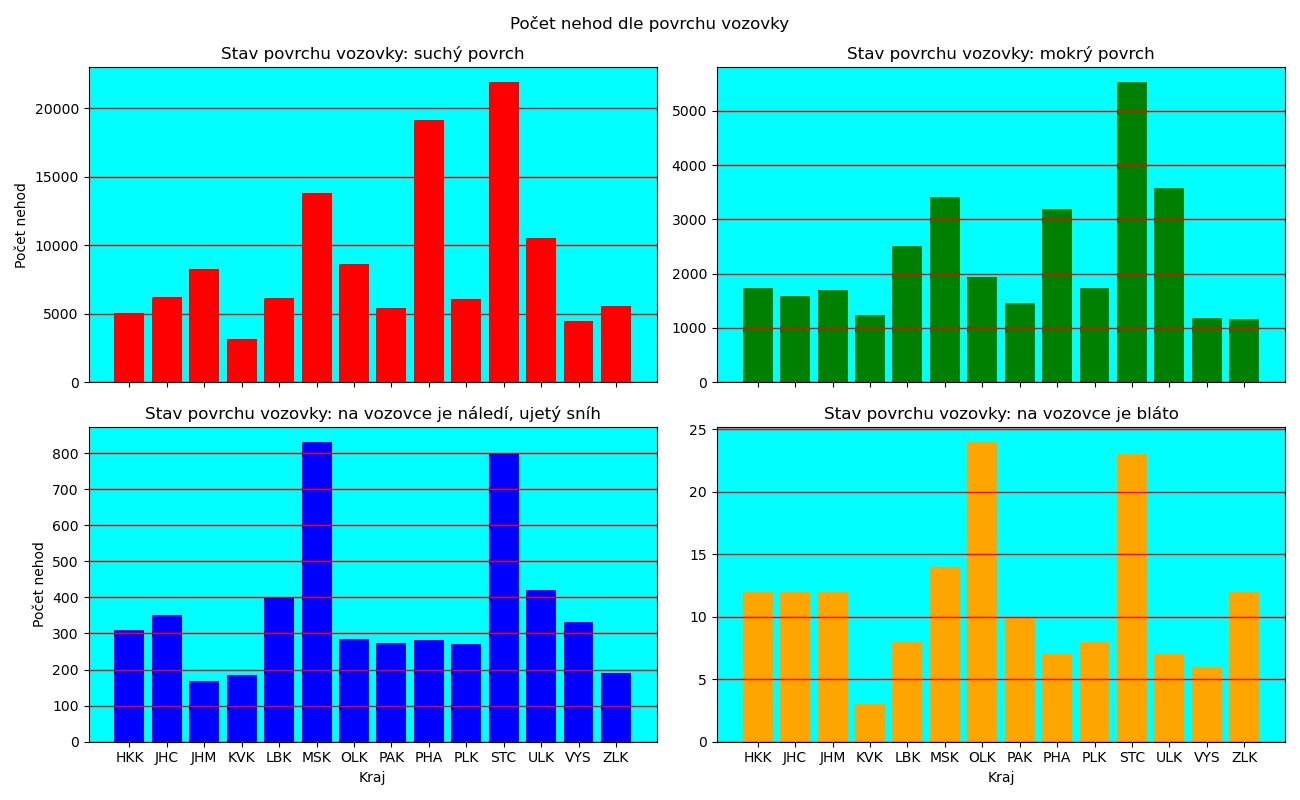
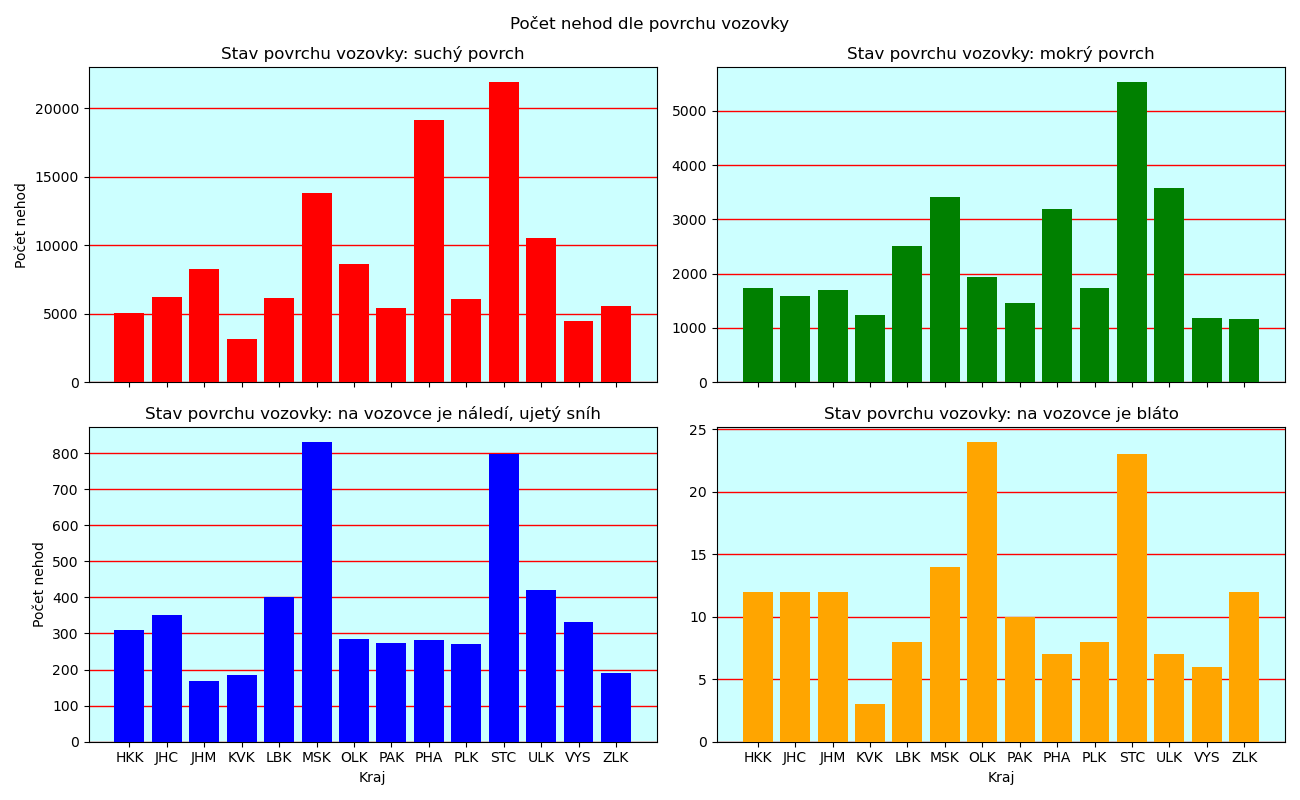
IZV project part 2 done (PEP8 required)

diff --git a/IZV/project_part2/analysis.py b/IZV/project_part2/analysis.py
@@ -85,15 +85,15 @@ def plot_state(df: pd.DataFrame, fig_location: str = None,
         state_data = df[df['state'] == state_name]
         state_counts = state_data.groupby('region')['region'].agg('count')
 
-        ax.bar(state_counts.index, state_counts.values, width=0.8, bottom=0, color=colors[i])
+        ax.bar(state_counts.index, state_counts.values, width=0.8, zorder=3, color=colors[i])
 
         ax.set_title(f'Stav povrchu vozovky: {state_name}')
         if i//2 == 1:
             ax.set_xlabel('Kraj')
         if i%2 == 0:
             ax.set_ylabel('Počet nehod')
-        ax.set_facecolor('cyan')
-        ax.grid(axis='y', color='red', linewidth=1)
+        ax.set_facecolor('#CCFFFF')
+        ax.grid(axis='y', color='red', linewidth=1, zorder=0)
 
     fig.suptitle('Počet nehod dle povrchu vozovky')
     fig.tight_layout()
@@ -110,23 +110,6 @@ def plot_alcohol(df: pd.DataFrame, df_consequences : pd.DataFrame,
     df_new = pd.merge(df, df_consequences, on='p1', how='inner')
     fig, axes = plt.subplots(2, 2, figsize=(13, 8), sharex=True)
 
-    region = {
-        0: "PHA",
-        1: "STC",
-        2: "JHC",
-        3: "PLK",
-        4: "ULK",
-        5: "HKK",
-        6: "JHM",
-        7: "MSK",
-        14: "OLK",
-        15: "ZLK",
-        16: "VYS",
-        17: "PAK",
-        18: "LBK",
-        19: "KVK",
-    }
-
     injury = {
         1: "Usmrcení",
         2: "Těžké zranění",
@@ -135,7 +118,7 @@ def plot_alcohol(df: pd.DataFrame, df_consequences : pd.DataFrame,
     }
     df_new['injury'] = df_new['p59g'].map(injury)
     df_new['injured_person'] = df_new['p59a'].apply(lambda x: 'Řidič' if x == 1 else 'Spolujezdec')
-    df_new['alcohol'] = df_new['p11'].apply(lambda x: 'Ano' if x in [1, 3, 6, 7, 8, 9] else 'Ne')
+    df_new['alcohol'] = df_new['p11'].apply(lambda x: 'Ano' if x >= 3 else 'Ne')
 
 
     for i, injury_name in enumerate(df_new['injury'].dropna().unique()):
@@ -151,25 +134,27 @@ def plot_alcohol(df: pd.DataFrame, df_consequences : pd.DataFrame,
             (df_new['injured_person'] == 'Spolujezdec') &
             (df_new['injury'] == injury_name)
         ]
-        injury_driver_counts = injury_driver_data.groupby('region')['region'].agg('count').reindex(region.values(), fill_value=0)
-        injury_passenger_counts = injury_passenger_data.groupby('region')['region'].agg('count').reindex(region.values(), fill_value=0)
+        injury_driver_counts = injury_driver_data.groupby('region')['region'].agg('count')
+        injury_passenger_counts = injury_passenger_data.groupby('region')['region'].agg('count')
 
-        positions = np.arange(len(region))
+        injury_driver_counts = injury_driver_counts.reindex(df_new['region'].unique(), fill_value=0)
+        injury_passenger_counts = injury_passenger_counts.reindex(df_new['region'].unique(), fill_value=0)
 
-        ax.bar(positions - 0.23, injury_driver_counts.values, width=0.4, bottom=0, color='blue', label='Řidič')
-        ax.bar(positions + 0.23, injury_passenger_counts.values, width=0.4, bottom=0, color='orange', label='Spolujezdec')
+        positions = np.arange(len(injury_driver_counts.index))
+
+        ax.bar(positions - 0.17, injury_driver_counts.values, width=0.3, bottom=0, color='blue', label='Řidič', zorder=3)
+        ax.bar(positions + 0.17, injury_passenger_counts.values, width=0.3, bottom=0, color='orange', label='Spolujezdec', zorder=3)
 
         ax.set_title(f'Následky nehody: {injury_name}')
         if i//2 == 1:
             ax.set_xlabel('Kraj')
         ax.set_ylabel('Počet nehod pod vlivem')
-        ax.set_facecolor('#77FFFF')
-        ax.grid(axis='y', color='white', linewidth=1)
+        ax.set_facecolor('#CCFFFF')
+        ax.grid(axis='y', color='white', linewidth=1, zorder=0)
         ax.set_xticks(positions)
-        ax.set_xticklabels(region.values())
+        ax.set_xticklabels(injury_driver_counts.index)
 
-    #TODO legend
-    # fig.legend(['Řidič', 'Spolujezdec'], loc='upper center', bbox_to_anchor=(0.5, -0.05), ncol=2)
+    plt.legend(['Řidič', 'Spolujezdec'], loc='center left', bbox_to_anchor=(1.0, 1.05))
     fig.tight_layout()
 
     if fig_location is not None:
@@ -208,10 +193,10 @@ def plot_type(df: pd.DataFrame, fig_location: str = None,
         (df['date'] >= '2023-01-01') &
         (df['date'] <= '2024-10-01')
     ]
-    
+
     for i, region_name in enumerate(choosen_regions):
         ax = axes[i//2, i%2]
-        
+
         region_data = df[df['region'] == region_name]
         for collision_type in collision.values():
             collision_data = region_data[region_data['collision'] == collision_type]
@@ -222,9 +207,9 @@ def plot_type(df: pd.DataFrame, fig_location: str = None,
             ax.set_ylabel('Počet nehod')
         plt.setp(ax.xaxis.get_majorticklabels(), rotation=45, ha="right")
 
-    #TODO legend
-    # fig.legend(loc='upper left', bbox_to_anchor=(1.05, 1), title="Collision Type")
+    plt.legend(collision.values(), loc='lower left', bbox_to_anchor=(1.0, 0.75), title='Druh nehody')
     fig.tight_layout()
+    fig.subplots_adjust(hspace=0.4, wspace=0.15)
 
     if fig_location is not None:
         fig.savefig(fig_location)
